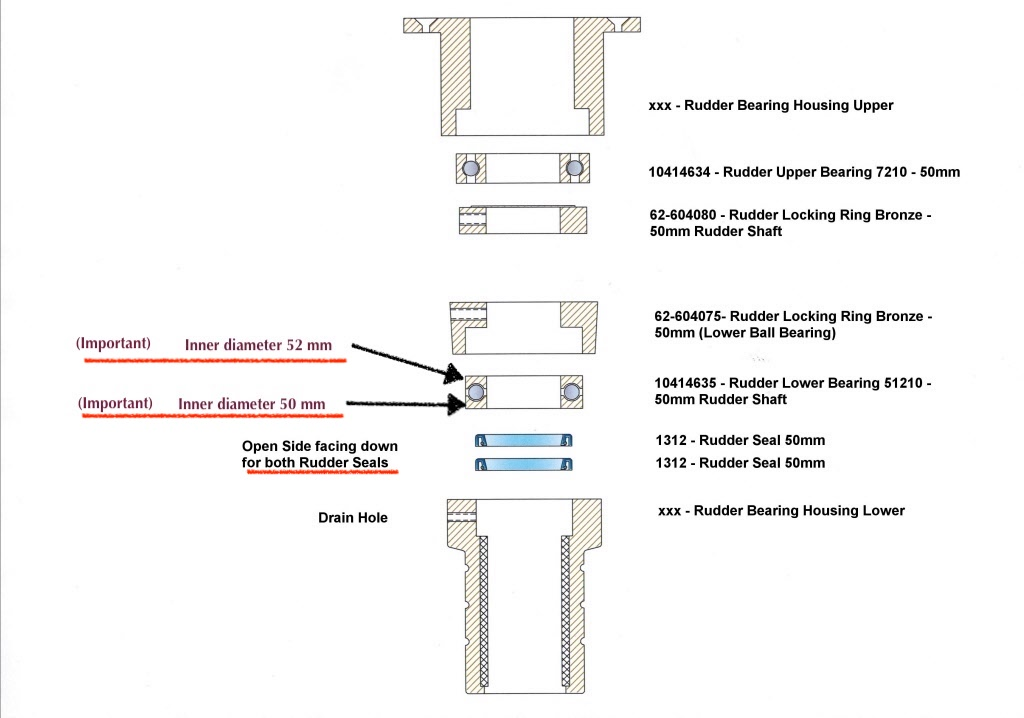
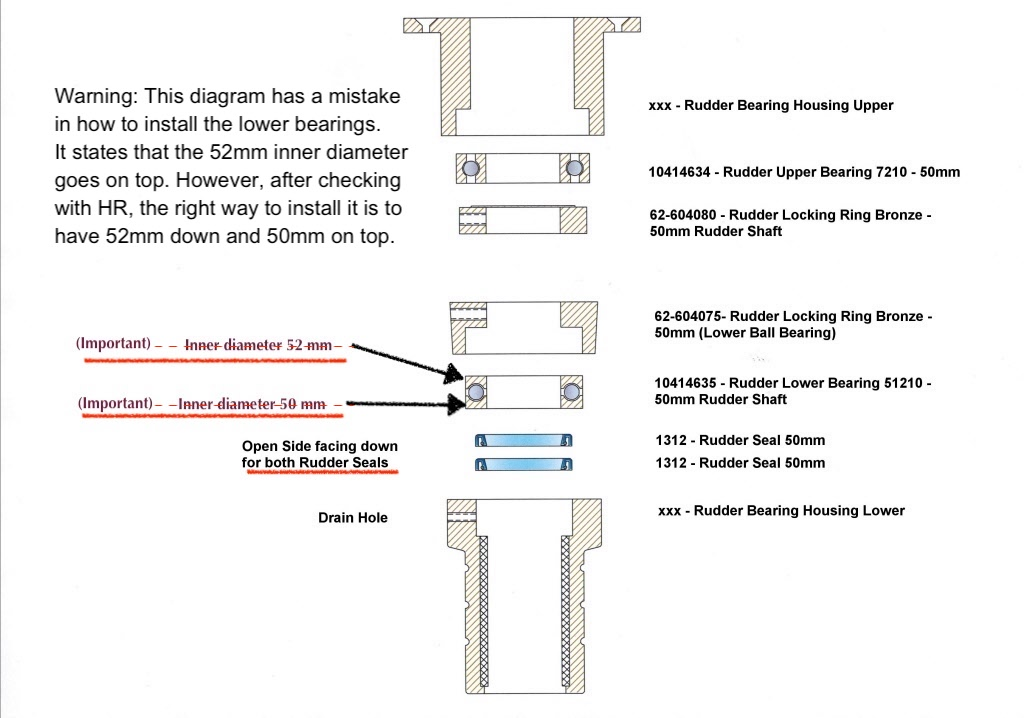
Add warning about how to install bearings

Changed region(s): [[0.0312, 0.1226, 0.4062, 0.337]]

diff --git a/projects/rudder-bearings-seals-replacement.md b/projects/rudder-bearings-seals-replacement.md
@@ -62,7 +62,7 @@ Then, unscrew the bolts (blue arrow) and remove the blue screw from the quadrant
 
 <p float="left">
  <img src="../images/quadrant.jpg" width="45%" />
- <img src="../images/quadrant-diagram.jpg" width="45%" /> 
+ <img src="../images/quadrant-diagram.jpg" width="45%" />
 </p>
 
 5. Remove steering quadrant
@@ -105,6 +105,8 @@ If the second seal has failed and water has entered the lower bearing, the lower
 Pull out the old simmer seals. If difficult, screwing down a few screws into the old seals to help pull up, especially the lower one, can help. If you find it hard to remove the seals, try to use a seal puller like the one shown on the [video](https://m.media-amazon.com/images/I/C1C3i5RY5ZS.mp4).
 
 13. Replace the seals with the new ones. (Note the direction on the seals). Be very careful when you are sliding the new seals on to the shaft. Grades on the shaft will (most likely where the tiller arms where fitted) damage the seals. Use a protective paper between the seal and shaft.
+
+![Rudder seals](../images/SimmerBearingRudder.jpeg)
 
  New Rudder Seals can be installed in a few different ways. But always with great care. Slots in the Rudder Shaft for Steering Gear Key and Autopilot Key can have sharp edges and damage the new Rudder Seals in the process. Clean the Rudder Shaft. Check the Rudder Shaft for any sharp edges. Wrap a paper tight around the top of the Rudder Shaft. Pull both new (1041466) Rudder Seals over the paper, and then move the paper down on the Rudder Shaft with the new (1041466) Rudder Seals.
 
